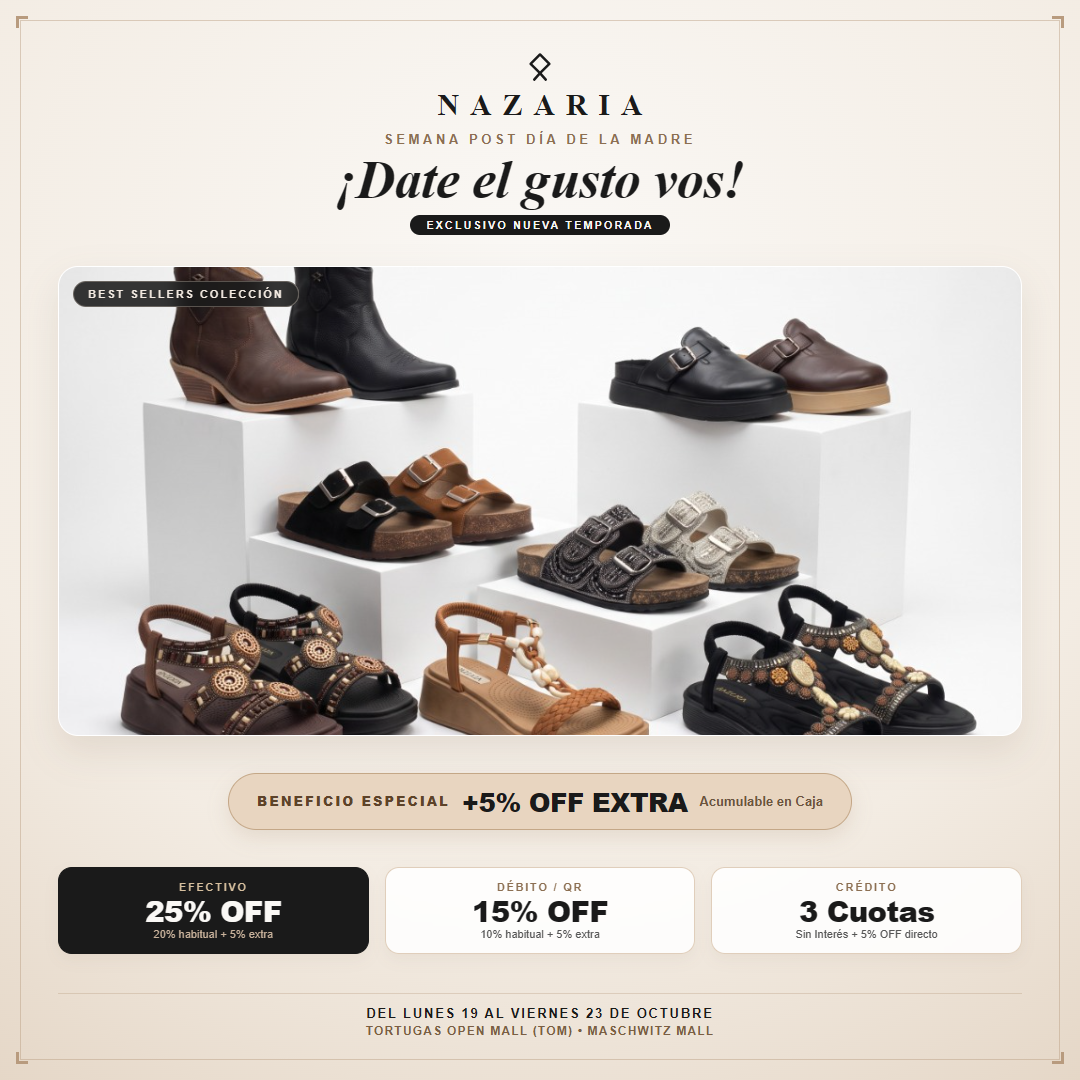
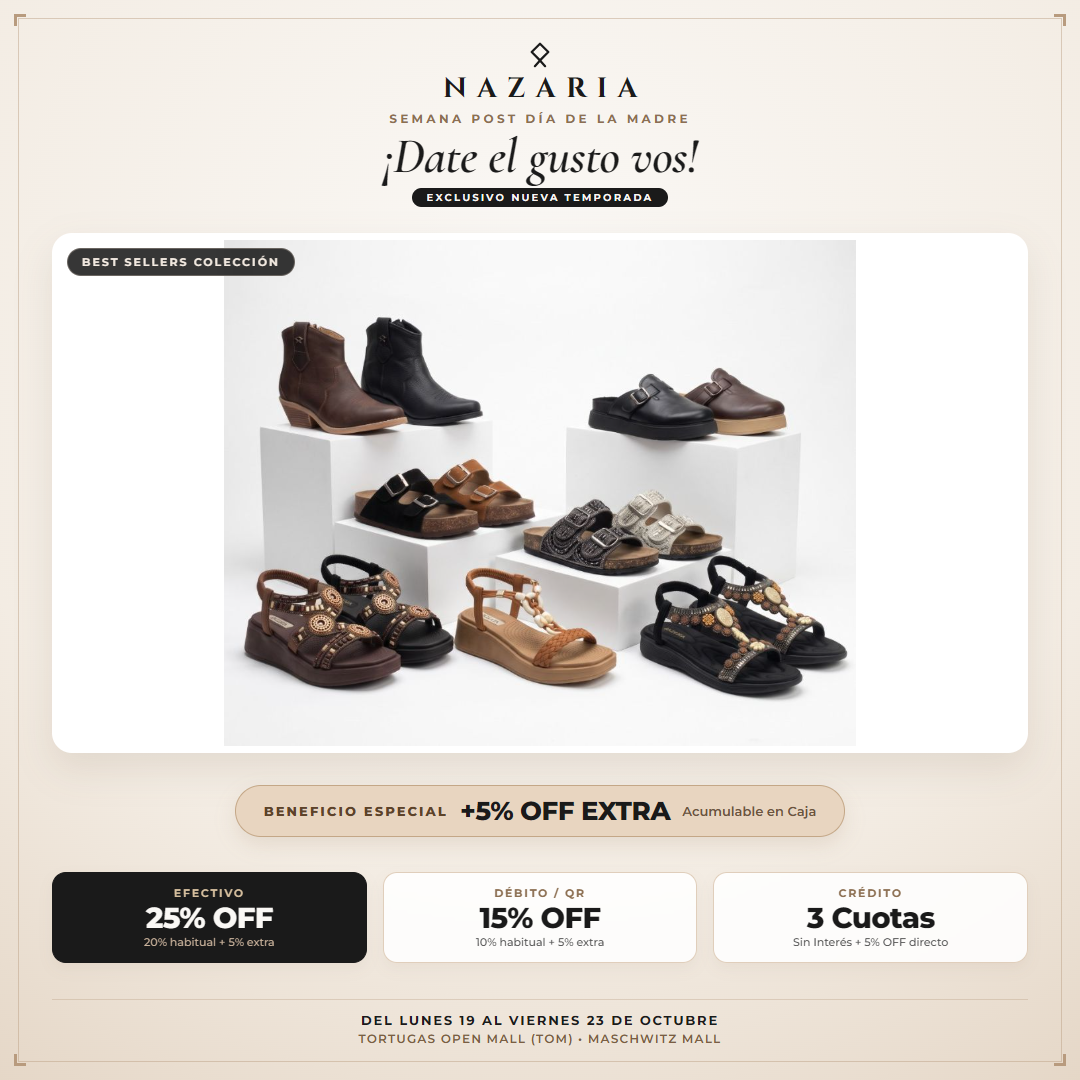
fix(flyers): eliminate shoe clipping in feed podium flyer and show complete boots and soles

diff --git a/flyers/feed_podium.html b/flyers/feed_podium.html
@@ -19,13 +19,13 @@
       display: flex;
       flex-direction: column;
       justify-content: space-between;
-      padding: 48px 58px 42px;
+      padding: 38px 52px 34px;
     }
 
     /* Borde editorial fino */
     .frame-border {
       position: absolute;
-      inset: 20px;
+      inset: 18px;
       border: 1.5px solid rgba(184, 155, 126, 0.45);
       pointer-events: none;
       z-index: 10;
@@ -39,10 +39,10 @@
       pointer-events: none;
       z-index: 11;
     }
-    .fc-tl { top: 16px; left: 16px; border-width: 3px 0 0 3px; }
-    .fc-tr { top: 16px; right: 16px; border-width: 3px 3px 0 0; }
-    .fc-bl { bottom: 16px; left: 16px; border-width: 0 0 3px 3px; }
-    .fc-br { bottom: 16px; right: 16px; border-width: 0 3px 3px 0; }
+    .fc-tl { top: 14px; left: 14px; border-width: 3px 0 0 3px; }
+    .fc-tr { top: 14px; right: 14px; border-width: 3px 3px 0 0; }
+    .fc-bl { bottom: 14px; left: 14px; border-width: 0 0 3px 3px; }
+    .fc-br { bottom: 14px; right: 14px; border-width: 0 3px 3px 0; }
 
     /* Header */
     .header {
@@ -57,33 +57,33 @@
       display: flex;
       flex-direction: column;
       align-items: center;
-      gap: 6px;
+      gap: 5px;
       color: #1A1A1A;
-      margin-bottom: 12px;
+      margin-bottom: 8px;
     }
     .brand-icon {
-      width: 36px;
-      height: 36px;
+      width: 32px;
+      height: 32px;
     }
     .brand-name {
       font-family: 'Cinzel', 'Cormorant Garamond', serif;
-      font-size: 30px;
+      font-size: 28px;
       font-weight: 700;
       letter-spacing: 0.36em;
       margin-right: -0.36em;
       line-height: 1;
     }
     .kicker {
-      font-size: 13px;
+      font-size: 12px;
       letter-spacing: 0.28em;
       text-transform: uppercase;
       font-weight: 700;
       color: #8C6F52;
-      margin-bottom: 5px;
+      margin-bottom: 4px;
     }
     .main-title {
       font-family: 'Cormorant Garamond', serif;
-      font-size: 54px;
+      font-size: 50px;
       font-style: italic;
       font-weight: 600;
       color: #1A1A1A;
@@ -92,21 +92,21 @@
     }
     .season-badge {
       display: inline-block;
-      margin-top: 6px;
+      margin-top: 5px;
       background: #1A1A1A;
       color: #FAF8F5;
-      font-size: 10.5px;
+      font-size: 10px;
       letter-spacing: 0.22em;
       text-transform: uppercase;
       font-weight: 700;
-      padding: 4px 16px;
+      padding: 3px 15px;
       border-radius: 20px;
     }
 
     /* Showcase con Podio de Estudio Limpio */
     .podium-container {
-      height: 470px;
-      margin: 4px 0 8px;
+      height: 520px;
+      margin: 2px 0 6px;
       position: relative;
       z-index: 2;
       border-radius: 20px;
@@ -117,12 +117,13 @@
       display: flex;
       align-items: center;
       justify-content: center;
+      padding: 6px 10px;
     }
     .podium-container img {
       width: 100%;
       height: 100%;
-      object-fit: cover;
-      object-position: center 52%;
+      object-fit: contain;
+      object-position: center center;
       display: block;
     }
     .podium-badge {
@@ -280,7 +281,7 @@
   <!-- Showcase con Podio de Estudio -->
   <div class="podium-container">
     <div class="podium-badge">Best Sellers Colección</div>
-    <img src="../img/podium_showcase_all.jpg" alt="Colección Calzado Nazaria en Podio">
+    <img src="../img/podium_full_shoes.jpg" alt="Colección Calzado Nazaria en Podio">
   </div>
 
   <!-- Highlight 5% Extra -->
